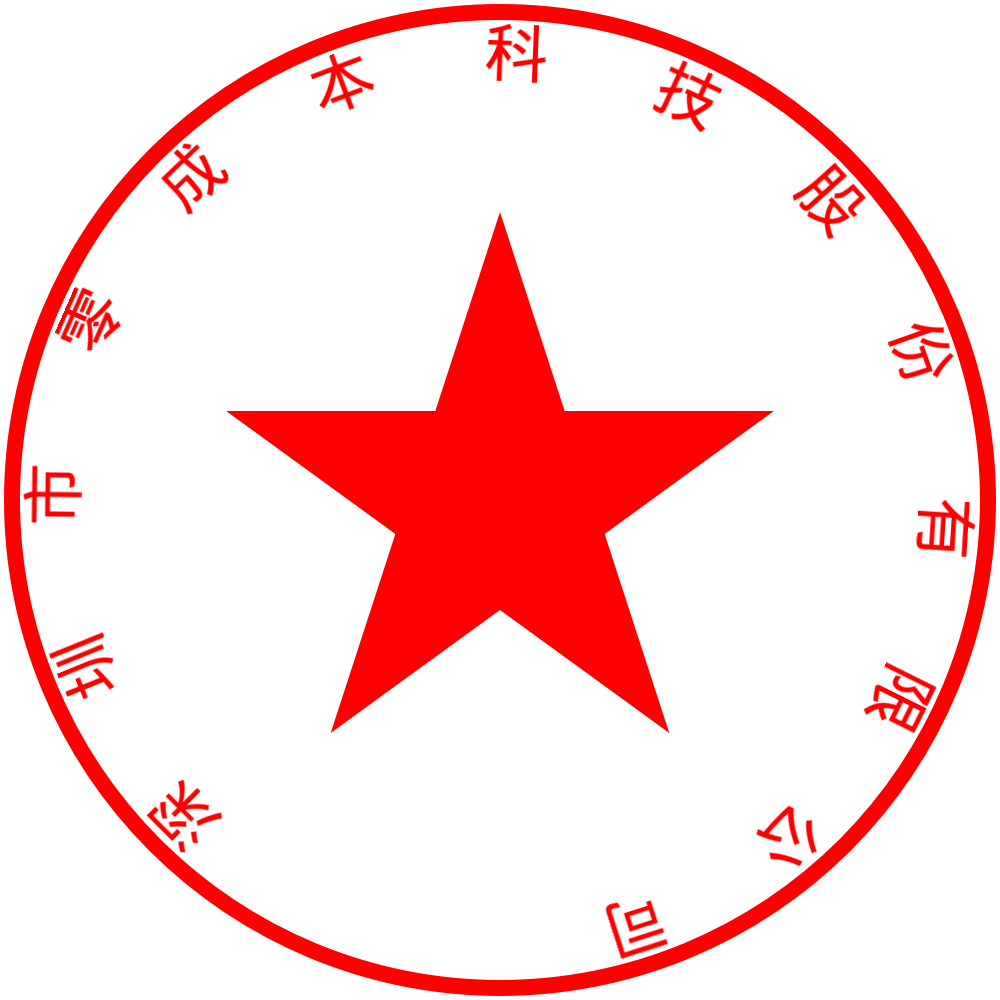
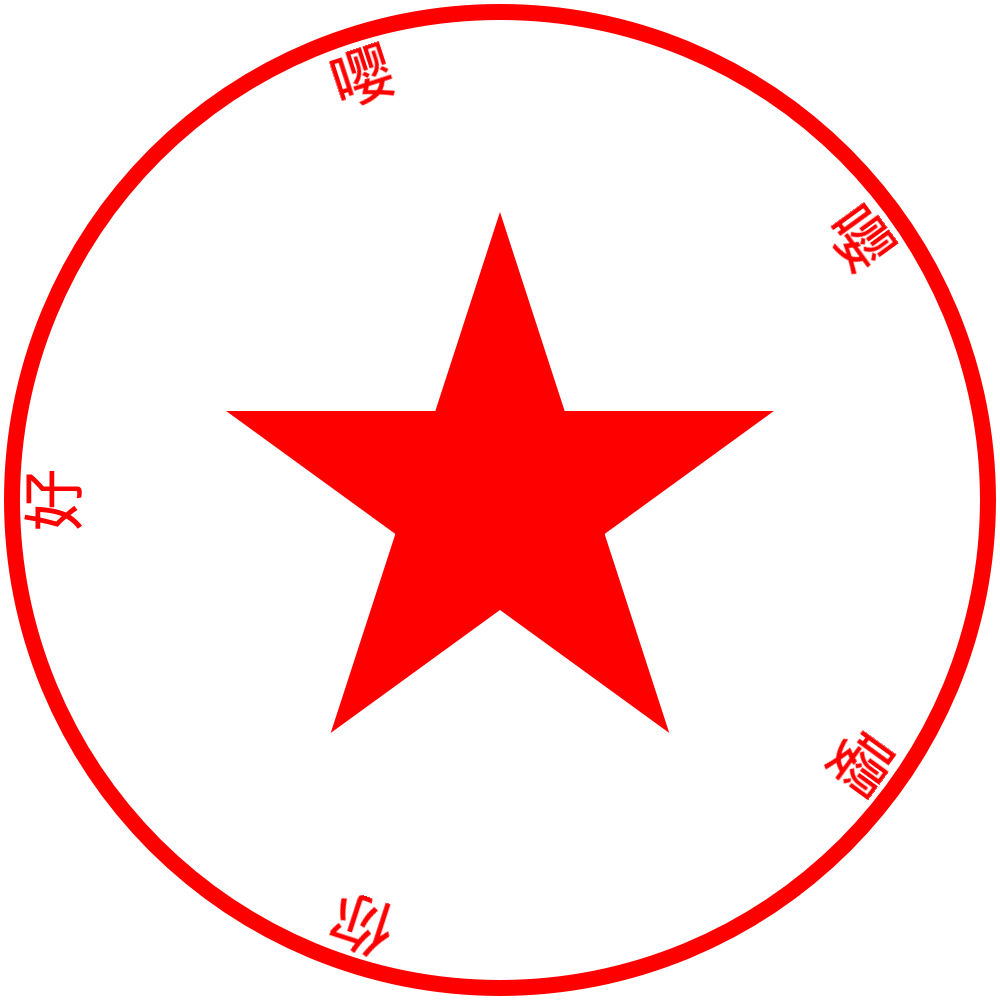
hi

diff --git a/play/draw/stamp.go b/play/draw/stamp.go
@@ -73,8 +73,8 @@ func Draw(message string) {
 	// 180 270
 	// 120 210
 	// 270 0
-	startAngle = 180 + (-45)
-	stepAngel = 320.0 / float64(strLen)
+	stepAngel = 360.0 / float64(strLen)
+	startAngle = 180 + (stepAngel * -1)
 	var testAngle float64 = startAngle + 90
 	for _, c := range message {
 		p := position(Radius-32, startAngle)
@@ -97,5 +97,5 @@ func Draw(message string) {
 }
 
 func main() {
-	Draw("深圳市零成本科技股份有限公司")
+	Draw("你好嘤嘤嘤")
 }
